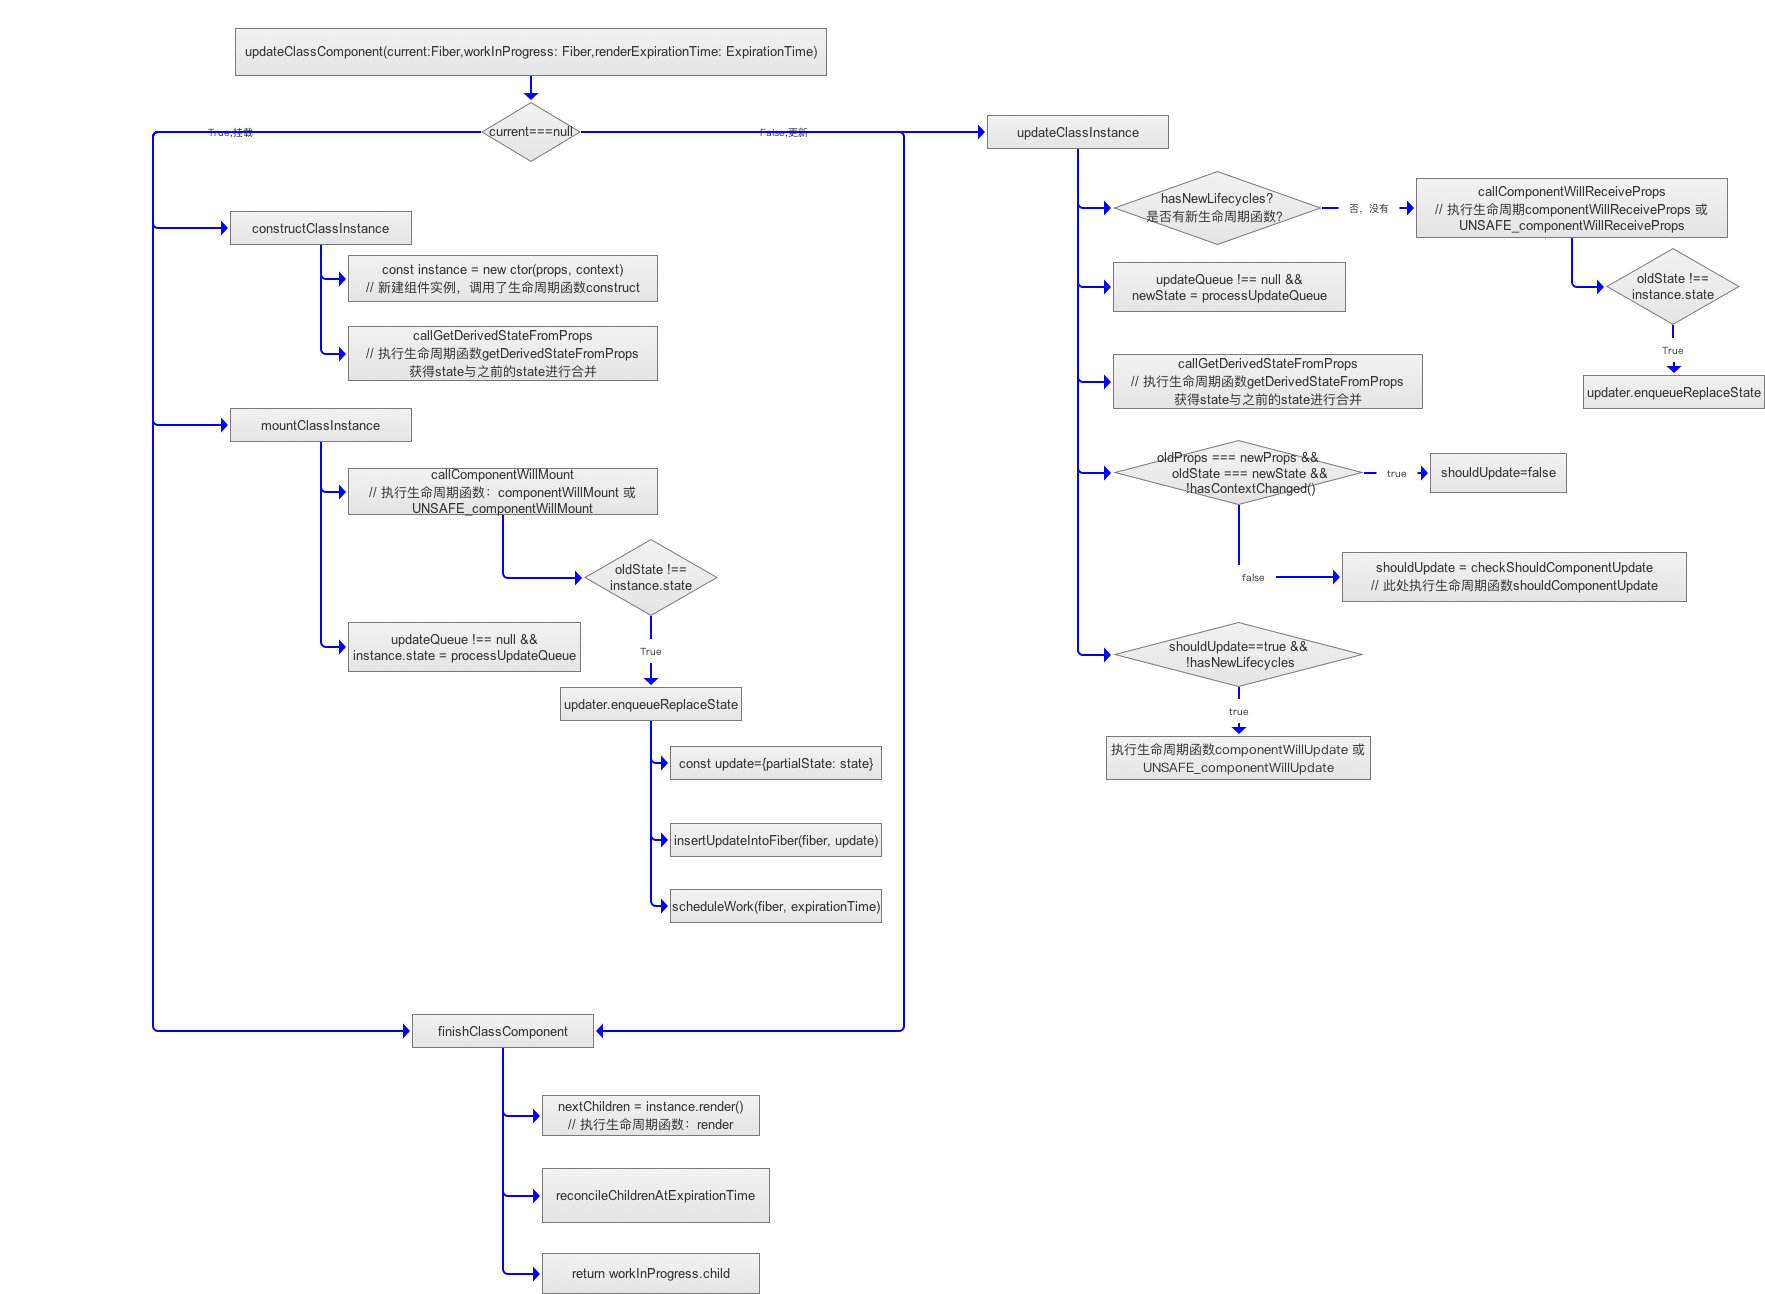
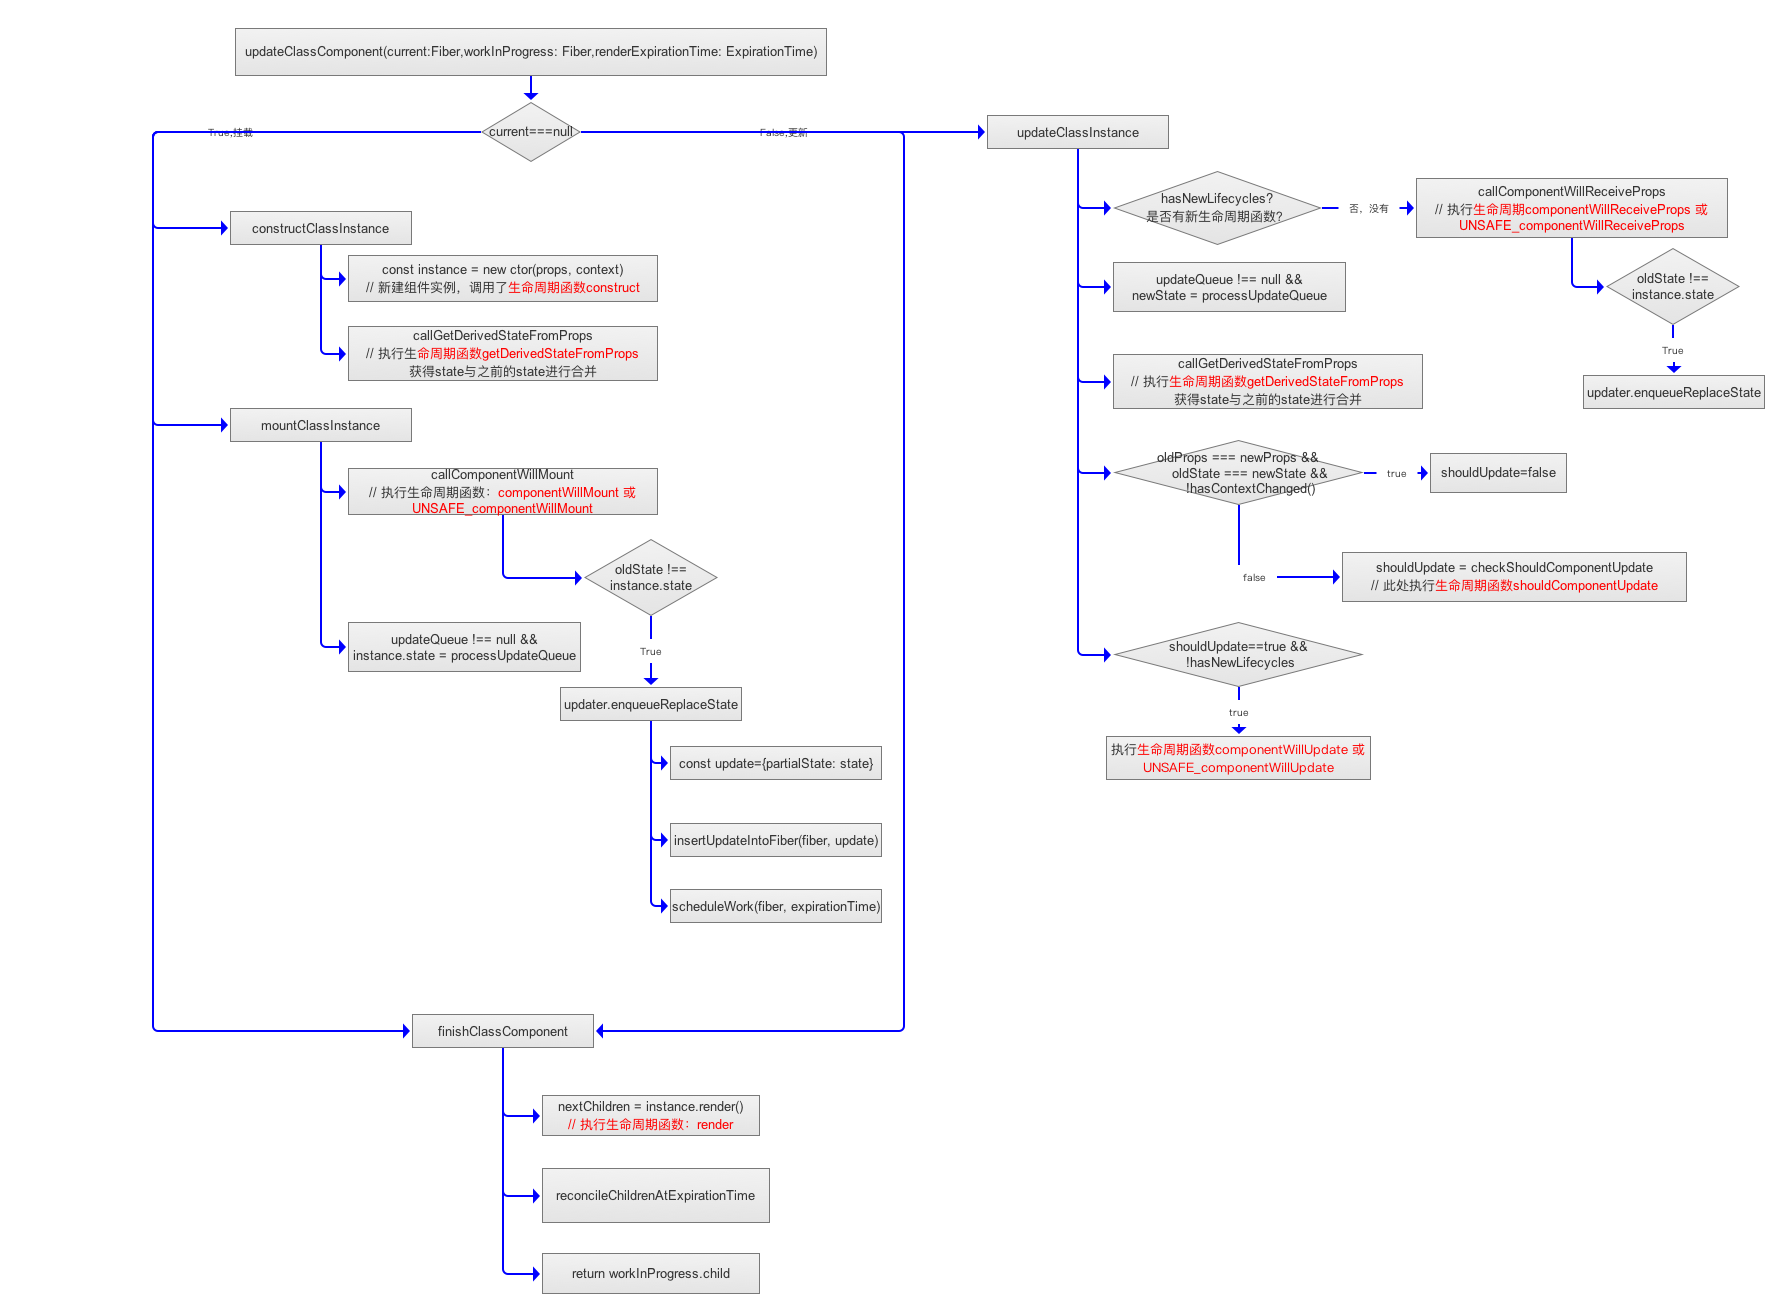
update

diff --git a/react/react16/README.md b/react/react16/README.md
@@ -1,6 +1,5 @@
 ## 基于React v16.3.2进行源码分析与学习
 ### 核心概念
-#### 重点源码
 #### 组件的挂载 ReactDOM.render
 1. 创建ReactRoot
 ```
@@ -29,6 +28,7 @@ ReactRoot._internalRoot:FiberRoot = {
 ![组件的挂载和更新](https://github.com/cleverpp/SourceAnalytics/blob/master/react/react16/images/reactdom_render.png)
 
 #### 组件的更新 this.setState
+
 上图中的红色箭头线展示this.setState流程，与render的流程区别在于：setState的调用对象非根节点，node.return!==null，因此需要循环回归到根节点才开始执行requestWork。
 #### 生命周期
 1. reconiliation阶段
@@ -39,12 +39,24 @@ ReactRoot._internalRoot:FiberRoot = {
 
 2. commint阶段
 
-    1. 在commitRoot的commitAllLifeCycles阶段，根据当前Fiber.tag来进行不同的处理，tag=ClassComponent时，如果是挂载则执行componentDidMount，更新执行componentDidUpdate
+    1. 在commitRoot的commitBeforeMutationLifecycles阶段，tag=ClassComponent时会执行生命周期函数getSnapshotBeforeUpdate。
     2. 在commitRoot的commitAllHostEffects阶段，如果当前操作是Deletion则执行commitDeletion，此处会执行生命周期componentWillUnmount
+    3. 在commitRoot的commitAllLifeCycles阶段，根据当前Fiber.tag来进行不同的处理，tag=ClassComponent时，如果是挂载则执行componentDidMount，更新执行componentDidUpdate，报错则执行componentDidCatch。
 #### react diff
+主要在reconcileChildFibers阶段进行diff
 
+1. 单个元素，调用reconcileSingleElement
+    1. key值不同，则deleteChild，effectTag为Deletion。
+    2. key相等且type相等，删除旧子节点的兄弟节点，复用旧节点并返回。
+    3. key相等且type不相等，删除旧子节点及兄弟节点，跳出循环，不能复用，则直接新建Fiber实例，并返回
+2. 单个Portal元素，调用reconcileSinglePortal
+3. string或者number，调用reconcileSingleTextNode
+4. Array（Fragment），调用reconcileChildrenArray
+
+注：2，3，4 同1的逻辑类似。
 
 #### 异步渲染
+
 
 ### 参考及学习笔记
 1. [[译] React 16 带来了什么以及对 Fiber 的解释](https://juejin.im/post/59de1b2a51882578c70c0833)
@@ -64,7 +76,7 @@ ReactRoot._internalRoot:FiberRoot = {
     componentWillUnmount
     ```
     2. fiber tree 以及 workInProgress tree
-4. [React16源码之React Fiber架构](https://juejin.im/post/5b7016606fb9a0099406f8de)
+4. [React16源码之React Fiber架构](https://juejin.im/post/5b7016606fb9a0099406f8de) 【推荐】
 5. [React Fiber架构](https://zhuanlan.zhihu.com/p/37095662)
 6. [关于React v16.3 新生命周期](https://juejin.im/post/5aca20c96fb9a028d700e1ce)
 

diff --git a/react/README.md b/react/README.md
@@ -19,6 +19,9 @@
 2. Fiber Reconciliation :实现了一个基于优先级和requestIdleCallback的循环任务调度算法。更新异步化，可中断，可管理更新的优先级
 3. 主要数据结构：ReactElement、Fiber 构建的fiber tree 以及 workInProgress tree。（基于单链表的树结构）
 4. 生命周期发生变化
+    1. 增加了新生命周期：getDerivedStateFromProps、getSnapshotBeforeUpdate、componentDidCatch
+    2. componentWillMount、componentWillReceiveProps、componentWillUpdate变得不安全，不推荐使用了，后续版本中会废弃。
+5. 异步渲染：
 
 
 # 源码阅读边角料
